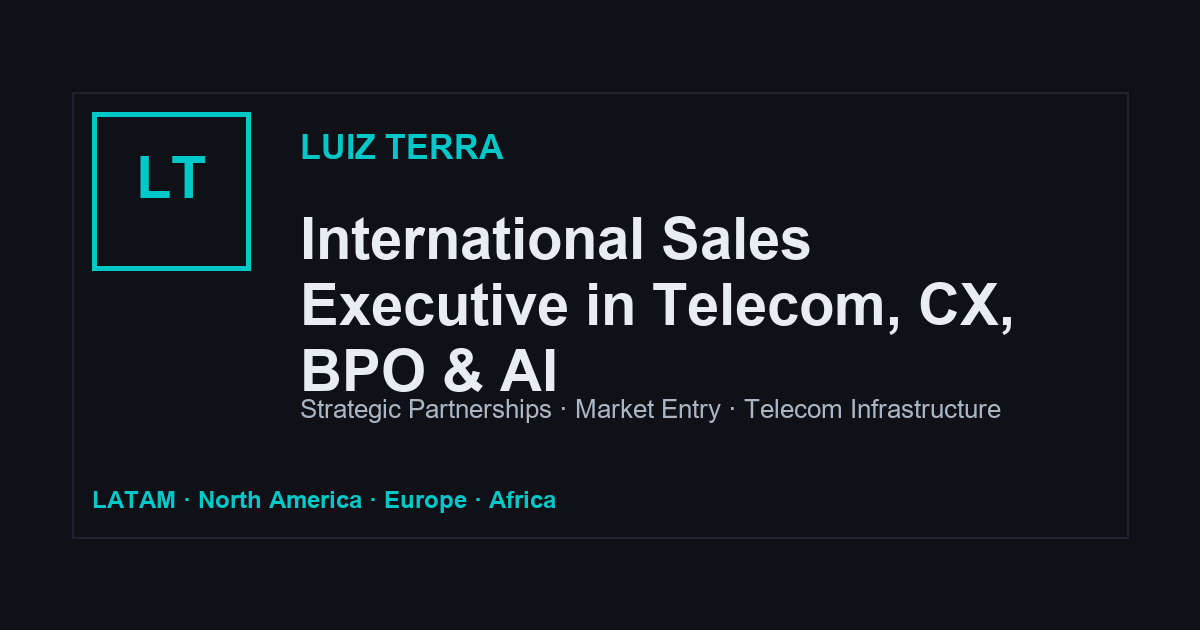
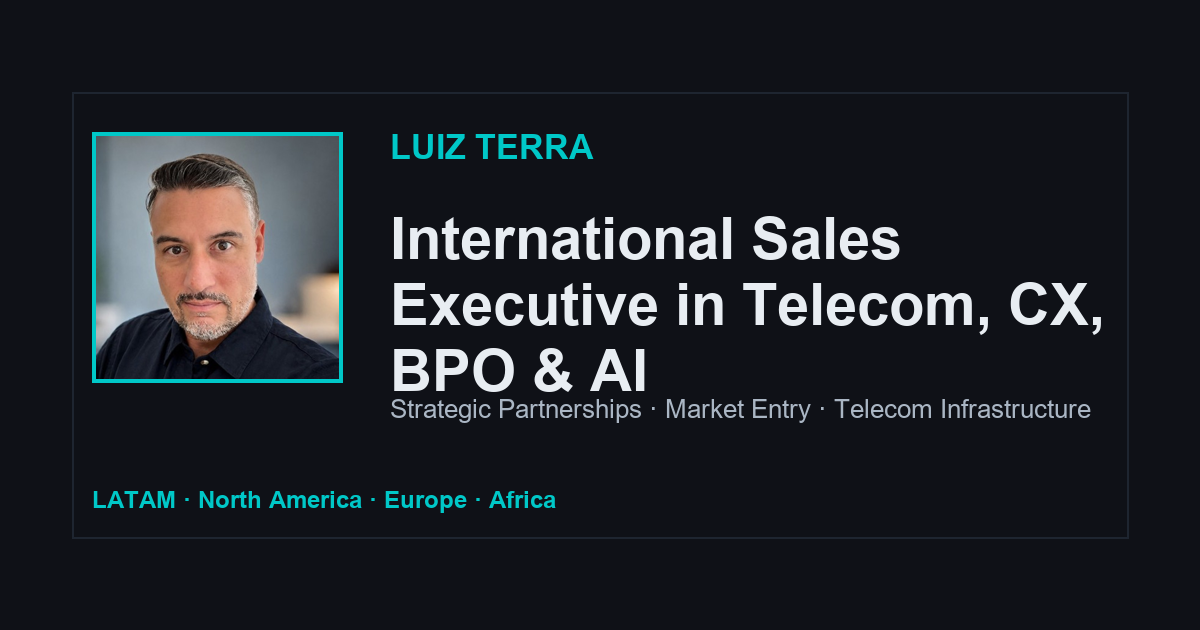
Add executive photo to site and social preview

Changed region(s): [[0.0617, 0.1508, 0.925, 0.6635]]

diff --git a/es/index.html b/es/index.html
@@ -84,10 +84,13 @@
               <a class="button tertiary" href="/public/luiz-terra-executive-bio.pdf" download>Descargar Bio Ejecutiva</a>
             </div>
           </div>
-          <aside class="hero-panel" aria-label="Current role">
-            <span>Current Role</span>
-            <strong>Head of International Sales at Khomp</strong>
-            <p>Abierto a alianzas estrategicas, conversaciones sobre entrada a nuevos mercados, oportunidades como speaker y networking ejecutivo en Telecom, Customer Experience (CX), BPO e IA.</p>
+          <aside class="hero-panel hero-profile" aria-label="Current role">
+            <img src="/public/images/luiz-terra-executive.jpg" alt="Luiz Terra, International Sales Executive in Telecom, CX, BPO and AI" width="520" height="520" />
+            <div>
+              <span>Current Role</span>
+              <strong>Head of International Sales at Khomp</strong>
+              <p>Abierto a alianzas estrategicas, conversaciones sobre entrada a nuevos mercados, oportunidades como speaker y networking ejecutivo en Telecom, Customer Experience (CX), BPO e IA.</p>
+            </div>
           </aside>
         </div>
         <div class="ticker" aria-label="Key sectors and markets">

diff --git a/pt/index.html b/pt/index.html
@@ -84,10 +84,13 @@
               <a class="button tertiary" href="/public/luiz-terra-executive-bio.pdf" download>Baixar Bio Executiva</a>
             </div>
           </div>
-          <aside class="hero-panel" aria-label="Current role">
-            <span>Current Role</span>
-            <strong>Head of International Sales at Khomp</strong>
-            <p>Aberto a parcerias estrategicas, conversas sobre entrada em novos mercados, oportunidades como palestrante e networking executivo em Telecom, Customer Experience (CX), BPO e IA.</p>
+          <aside class="hero-panel hero-profile" aria-label="Current role">
+            <img src="/public/images/luiz-terra-executive.jpg" alt="Luiz Terra, International Sales Executive in Telecom, CX, BPO and AI" width="520" height="520" />
+            <div>
+              <span>Current Role</span>
+              <strong>Head of International Sales at Khomp</strong>
+              <p>Aberto a parcerias estrategicas, conversas sobre entrada em novos mercados, oportunidades como palestrante e networking executivo em Telecom, Customer Experience (CX), BPO e IA.</p>
+            </div>
           </aside>
         </div>
         <div class="ticker" aria-label="Key sectors and markets">

diff --git a/en/index.html b/en/index.html
@@ -84,10 +84,13 @@
               <a class="button tertiary" href="/public/luiz-terra-executive-bio.pdf" download>Download Executive Bio</a>
             </div>
           </div>
-          <aside class="hero-panel" aria-label="Current role">
-            <span>Current Role</span>
-            <strong>Head of International Sales at Khomp</strong>
-            <p>Open to strategic partnerships, market-entry conversations, speaking opportunities and executive networking across Telecom, Customer Experience (CX), BPO and AI.</p>
+          <aside class="hero-panel hero-profile" aria-label="Current role">
+            <img src="/public/images/luiz-terra-executive.jpg" alt="Luiz Terra, International Sales Executive in Telecom, CX, BPO and AI" width="520" height="520" />
+            <div>
+              <span>Current Role</span>
+              <strong>Head of International Sales at Khomp</strong>
+              <p>Open to strategic partnerships, market-entry conversations, speaking opportunities and executive networking across Telecom, Customer Experience (CX), BPO and AI.</p>
+            </div>
           </aside>
         </div>
         <div class="ticker" aria-label="Key sectors and markets">

diff --git a/index.html b/index.html
@@ -84,10 +84,13 @@
               <a class="button tertiary" href="/public/luiz-terra-executive-bio.pdf" download>Download Executive Bio</a>
             </div>
           </div>
-          <aside class="hero-panel" aria-label="Current role">
-            <span>Current Role</span>
-            <strong>Head of International Sales at Khomp</strong>
-            <p>Open to strategic partnerships, market-entry conversations, speaking opportunities and executive networking across Telecom, Customer Experience (CX), BPO and AI.</p>
+          <aside class="hero-panel hero-profile" aria-label="Current role">
+            <img src="/public/images/luiz-terra-executive.jpg" alt="Luiz Terra, International Sales Executive in Telecom, CX, BPO and AI" width="520" height="520" />
+            <div>
+              <span>Current Role</span>
+              <strong>Head of International Sales at Khomp</strong>
+              <p>Open to strategic partnerships, market-entry conversations, speaking opportunities and executive networking across Telecom, Customer Experience (CX), BPO and AI.</p>
+            </div>
           </aside>
         </div>
         <div class="ticker" aria-label="Key sectors and markets">

diff --git a/styles.css b/styles.css
@@ -256,6 +256,27 @@ h3 {
   padding: 24px 0 24px 24px;
 }
 
+.hero-profile {
+  border-left: 0;
+  padding: 0;
+}
+
+.hero-profile img {
+  display: block;
+  width: min(100%, 340px);
+  aspect-ratio: 1;
+  margin-left: auto;
+  border: 1px solid rgba(0, 200, 200, 0.42);
+  object-fit: cover;
+  box-shadow: 0 28px 70px var(--shadow);
+}
+
+.hero-profile div {
+  margin-top: 22px;
+  border-left: 2px solid var(--accent);
+  padding-left: 22px;
+}
+
 .hero-panel span,
 .role,
 .account-grid span,
@@ -752,6 +773,10 @@ h3 {
 
   .hero-panel {
     max-width: 520px;
+  }
+
+  .hero-profile img {
+    margin-left: 0;
   }
 
   .focus-grid,

diff --git a/tools/build_static_site.py b/tools/build_static_site.py
@@ -15,9 +15,11 @@ from reportlab.platypus import Paragraph, SimpleDocTemplate, Spacer, Table, Tabl
 
 ROOT = Path(__file__).resolve().parents[1]
 PUBLIC = ROOT / "public"
+IMAGES = PUBLIC / "images"
 BASE_URL = "https://www.luizterra.com.br"
 EMAIL = "contact@luizterra.com.br"
 LINKEDIN = "https://linkedin.com/in/lterra"
+PHOTO = IMAGES / "luiz-terra-executive.jpg"
 
 
 META = {
@@ -610,10 +612,13 @@ def render_home(lang: str) -> str:
               <a class="button tertiary" href="/public/luiz-terra-executive-bio.pdf" download>{esc(c["bio_cta"])}</a>
             </div>
           </div>
-          <aside class="hero-panel" aria-label="Current role">
-            <span>{esc(c["current_label"])}</span>
-            <strong>Head of International Sales at Khomp</strong>
-            <p>{esc(c["current_text"])}</p>
+          <aside class="hero-panel hero-profile" aria-label="Current role">
+            <img src="/public/images/luiz-terra-executive.jpg" alt="Luiz Terra, International Sales Executive in Telecom, CX, BPO and AI" width="520" height="520" />
+            <div>
+              <span>{esc(c["current_label"])}</span>
+              <strong>Head of International Sales at Khomp</strong>
+              <p>{esc(c["current_text"])}</p>
+            </div>
           </aside>
         </div>
         <div class="ticker" aria-label="Key sectors and markets">
@@ -858,15 +863,26 @@ def build_og_image() -> None:
     muted = "#AAB6C4"
     divider = "#1E2530"
     draw.rectangle((72, 92, 1128, 538), outline=divider, width=2)
-    draw.rectangle((92, 112, 250, 270), outline=teal, width=5)
-    draw.text((171, 178), "LT", fill=teal, font=load_font(58, True), anchor="mm")
-    draw.text((300, 128), "LUIZ TERRA", fill=teal, font=load_font(34, True))
+    if PHOTO.exists():
+        photo = Image.open(PHOTO).convert("RGB")
+        side = min(photo.size)
+        left = (photo.width - side) // 2
+        top = max(0, (photo.height - side) // 3)
+        photo = photo.crop((left, top, left + side, top + side)).resize((250, 250))
+        image.paste(photo, (92, 132))
+        draw.rectangle((92, 132, 342, 382), outline=teal, width=4)
+        text_x = 390
+    else:
+        draw.rectangle((92, 112, 250, 270), outline=teal, width=5)
+        draw.text((171, 178), "LT", fill=teal, font=load_font(58, True), anchor="mm")
+        text_x = 300
+    draw.text((text_x, 128), "LUIZ TERRA", fill=teal, font=load_font(34, True))
     title_font = load_font(58, True)
     y = 206
     for line in wrap_text(draw, "International Sales Executive in Telecom, CX, BPO & AI", title_font, 760):
-        draw.text((300, y), line, fill=text, font=title_font)
+        draw.text((text_x, y), line, fill=text, font=title_font)
         y += 66
-    draw.text((300, 394), "Strategic Partnerships · Market Entry · Telecom Infrastructure", fill=muted, font=load_font(26))
+    draw.text((text_x, 394), "Strategic Partnerships · Market Entry · Telecom Infrastructure", fill=muted, font=load_font(26))
     draw.text((92, 486), "LATAM · North America · Europe · Africa", fill=teal, font=load_font(24, True))
     image.save(PUBLIC / "og-image.png")
 
